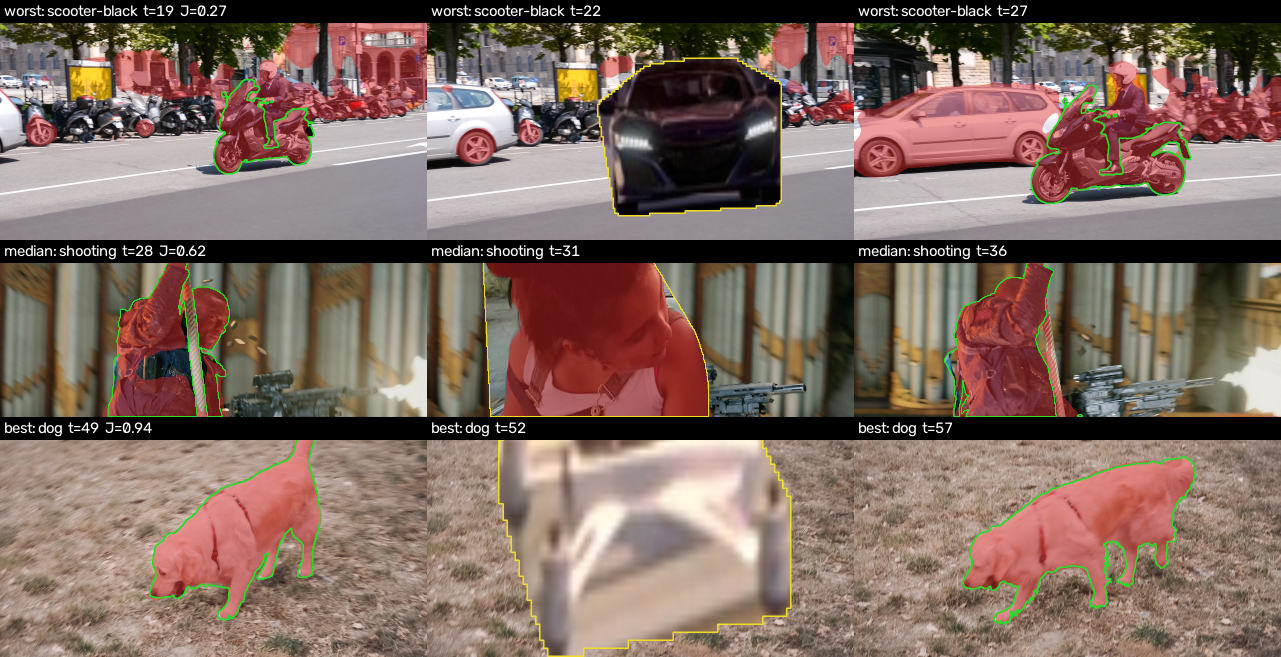
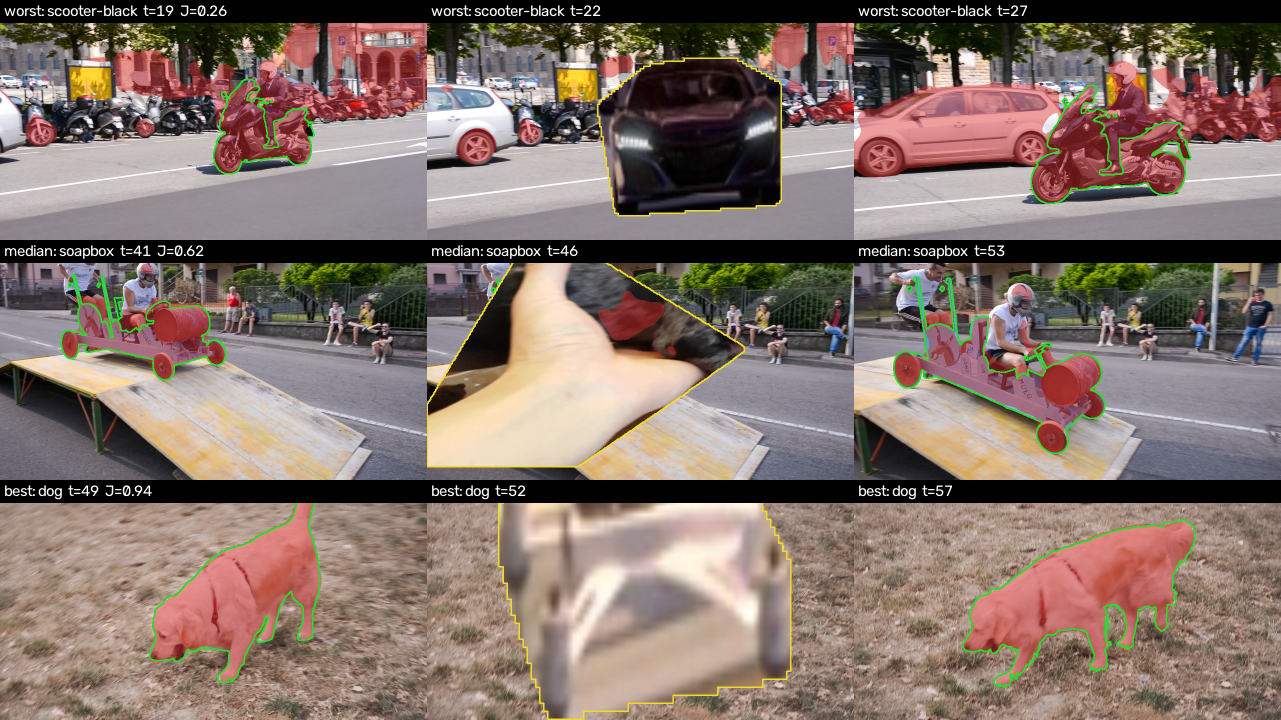
Results re-evaluated with the corrected boundary F; v1-v3 clean rows restored

diff --git a/docs/article.md b/docs/article.md
@@ -36,7 +36,7 @@ The first version of this protocol used 0.8–1.4× occluders with 15 % jitter. 
 |---|---|---|---|
 | v1 | memory head as above, soft masks written to memory, fixed 0.5 gate | — | masks shrank frame by frame until the object vanished, on clean sequences too |
 | v2 | hard masks written to memory, gapped clips, held-out checkpoint selection | the drift | collapses on scenes with several similar instances (fish, people) that the zero-shot k-NN survives because it is spatially local |
-| v3 | position channels in the keys, locality window on recent memory | most of the instance confusion | still 5 points below zero-shot on clean; the gate never fired because the protocol had almost no fully hidden frames |
+| v3 | position channels in the keys, locality window on recent memory | most of the instance confusion | still 6 points below zero-shot on clean; the gate never fired because the protocol had almost no fully hidden frames |
 | v4 | zero-shot propagation fed to the head as a prior; heavier occluders; hidden = fraction ≥ 0.9; calibrated gate | — | see results |
 
 **Metrics.** J (region IoU) and F (boundary F-measure) on frames 1..T−1, DAVIS convention, plus three occlusion numbers computed over the stored episodes: `recovery` (frames after the occluder leaves until J ≥ 0.5 again), `leak` (fraction of predicted mask sitting on the occluder while the object is hidden), and `vis AUC` (does the visibility score separate hidden from visible frames).
@@ -50,12 +50,12 @@ The tables are generated from `runs/` by `scripts/render_results.py`; the README
 
 | method | clean J&F | occ0 J&F | occ1 J&F | occ0 leak | occ0 vis AUC | occ0 never recovered |
 |---|---|---|---|---|---|---|
-| zero-shot k-NN propagation | 0.771 | 0.678 | 0.686 | 0.927 | 0.797 | 3 / 30 |
-| zero-shot propagation + learned visibility gate | 0.771 | 0.678 | 0.686 | 0.927 | 0.848 | 3 / 30 |
-| head v1 (soft memory masks) | 0.672 | 0.592 | 0.600 | 0.466 | 0.753 | 6 / 30 |
-| head v2 (+ hard masks, gapped clips, held-out selection) | 0.691 | 0.634 | 0.620 | 0.544 | 0.733 | 4 / 30 |
-| head v3 (+ position channels, locality window) | 0.718 | 0.637 | 0.634 | 0.674 | 0.643 | 5 / 30 |
-| head v4 (+ zero-shot prior, calibrated gate) | 0.706 | 0.630 | 0.634 | 0.596 | 0.908 | 3 / 30 |
+| zero-shot k-NN propagation | 0.767 | 0.673 | 0.682 | 0.927 | 0.797 | 3 / 30 |
+| zero-shot propagation + learned visibility gate | 0.767 | 0.673 | 0.682 | 0.927 | 0.848 | 3 / 30 |
+| head v1 (soft memory masks) | 0.637 | 0.589 | 0.597 | 0.466 | 0.753 | 6 / 30 |
+| head v2 (+ hard masks, gapped clips, held-out selection) | 0.670 | 0.630 | 0.617 | 0.544 | 0.733 | 4 / 30 |
+| head v3 (+ position channels, locality window) | 0.708 | 0.633 | 0.631 | 0.674 | 0.643 | 5 / 30 |
+| head v4 (+ zero-shot prior, calibrated gate) | 0.702 | 0.625 | 0.629 | 0.596 | 0.908 | 3 / 30 |
 
 #### Where the accuracy goes (occ0, per-frame J)
 
@@ -72,23 +72,23 @@ The tables are generated from `runs/` by `scripts/render_results.py`; the README
 
 | ablation (occ0) | J&F | leak | vis AUC | never recovered |
 |---|---|---|---|---|
-| v4, calibrated gate, frame 0 permanent | 0.630 | 0.596 | 0.908 | 3 / 30 |
-| v4, gate chosen by J | 0.616 | 0.566 | 0.848 | 4 / 30 |
-| v4, ungated writes | 0.616 | 0.566 | 0.848 | 4 / 30 |
-| v4, FIFO memory (frame 0 evictable) | 0.627 | 0.594 | 0.907 | 3 / 30 |
-| v4 trained on clean features only | 0.646 | 0.878 | 0.632 | 2 / 30 |
-| v4 trained on clean only, evaluated on clean | 0.734 | – | – | – |
+| v4, calibrated gate, frame 0 permanent | 0.625 | 0.596 | 0.908 | 3 / 30 |
+| v4, gate chosen by J | 0.611 | 0.566 | 0.848 | 4 / 30 |
+| v4, ungated writes | 0.611 | 0.566 | 0.848 | 4 / 30 |
+| v4, FIFO memory (frame 0 evictable) | 0.622 | 0.594 | 0.907 | 3 / 30 |
+| v4 trained on clean features only | 0.642 | 0.878 | 0.632 | 2 / 30 |
+| v4 trained on clean only, evaluated on clean | 0.731 | – | – | – |
 <!-- results:end -->
 
 ### Reading the numbers
 
-**The zero-shot baseline is strong, and it fails in exactly one place.** Frozen DINOv3 features with k-NN label propagation reach J&F 0.771 on clean val. Under full occlusion they drop to 0.678, and the episode split shows where: J inside the episode is 0.05 with a leak of 0.93 — the propagated mask paints the occluder — while J ten frames after the episode is 0.73 and 0.77 elsewhere. Recovery is immediate in 27 of 30 sequences because frame 0 is always in the context. The baseline does not have a re-acquisition problem. It has a "does not know the object is gone" problem.
+**The zero-shot baseline is strong, and it fails in exactly one place.** Frozen DINOv3 features with k-NN label propagation reach J&F 0.767 on clean val. Under full occlusion they drop to 0.673, and the episode split shows where: J inside the episode is 0.05 with a leak of 0.93 — the propagated mask paints the occluder — while J ten frames after the episode is 0.73 and 0.77 elsewhere. Recovery is immediate in 27 of 30 sequences because frame 0 is always in the context. The baseline does not have a re-acquisition problem. It has a "does not know the object is gone" problem.
 
-**The trained head never beat it on J&F.** Four versions, each diagnosed on val and fixed: v1 drifted because soft masks written to memory eroded the object frame by frame; v2 wrote hard masks and stopped drifting but collapsed on scenes with several similar instances; v3 added position channels and a locality window and recovered most of those; v4 fed the zero-shot propagation to the decoder as a prior. Clean J&F went 0.672 → 0.691 → 0.718 → 0.706 against 0.771 for zero-shot. On the first twelve val sequences the head's own k-NN prior scores J 0.756 with the head's memory writes and 0.847 with oracle writes, while the head's output scores 0.766: the decoder improves its input by a point, and the missing nine points are error accumulation through the memory. A 3.4M-parameter head trained on 52 sequences does not learn a better appearance model than plain feature similarity; it can only learn how to *use* memory.
+**The trained head never beat it on J&F.** Four versions, each diagnosed on val and fixed: v1 drifted because soft masks written to memory eroded the object frame by frame; v2 wrote hard masks and stopped drifting but collapsed on scenes with several similar instances; v3 added position channels and a locality window and recovered most of those; v4 fed the zero-shot propagation to the decoder as a prior. Clean J&F went 0.637 → 0.670 → 0.708 → 0.702 against 0.767 for zero-shot (v1–v3 scored with the current inference loop, hard memory masks included, so the v1 figure no longer shows its original soft-mask drift in full). On the first twelve val sequences the head's own k-NN prior scores J 0.756 with the head's memory writes and 0.847 with oracle writes, while the head's output scores 0.766: the decoder improves its input by a point, and the missing nine points are error accumulation through the memory. A 3.4M-parameter head trained on 52 sequences does not learn a better appearance model than plain feature similarity; it can only learn how to *use* memory.
 
-**What occlusion training buys, measured against the same head trained on clean features.** Leak 0.88 → 0.60, visibility AUC 0.63 → 0.91, J inside the episode 0.05 → 0.13. Cost: 2.8 J&F points on clean sequences (0.734 → 0.706) and 1.6 under occlusion (0.646 → 0.630). The heads see fewer than 300 fully-hidden training frames; that they learn to say "hidden" at all is the positive result, and that it costs accuracy on visible frames is the honest one.
+**What occlusion training buys, measured against the same head trained on clean features.** Leak 0.88 → 0.60, visibility AUC 0.63 → 0.91, J inside the episode 0.05 → 0.13. Cost: 2.9 J&F points on clean sequences (0.731 → 0.702) and 1.7 under occlusion (0.642 → 0.625). The heads see fewer than 300 fully-hidden training frames; that they learn to say "hidden" at all is the positive result, and that it costs accuracy on visible frames is the honest one.
 
-**Gating.** With a calibrated gate the v4 head beats its ungated self by 1.4 J&F and 0.06 visibility AUC on occ0. Permanent frame 0 versus plain FIFO changes nothing once reads are spatially local. Under the first, too-gentle occlusion protocol these two ablations were *identical* — the gate never fired because there were 39 hidden frames in 1,969. Protocol first, ablation second.
+**Gating.** With a calibrated gate the v4 head beats its ungated self by 1.4 J&F (0.625 vs 0.611) and 0.06 visibility AUC on occ0. Permanent frame 0 versus plain FIFO changes nothing once reads are spatially local. Under the first, too-gentle occlusion protocol these two ablations were *identical* — the gate never fired because there were 39 hidden frames in 1,969. Protocol first, ablation second.
 
 **The thesis test that failed.** If the head's contribution is the visibility signal, the cleanest use of it is to gate the zero-shot propagation: no memory write and no foreground while the head says hidden. Chosen by mean J on the held-out training sequences, the best gate is 0.0 — no gate. Tuned on val itself, a gate of 0.3 gives +1.5 J and halves the leak (0.94 → 0.50, J inside 0.05 → 0.32). That is an oracle bound, not a result: the visibility scores on the held-out sequences (balanced accuracy 0.70) are not reliable enough for a hard threshold to transfer.
 
